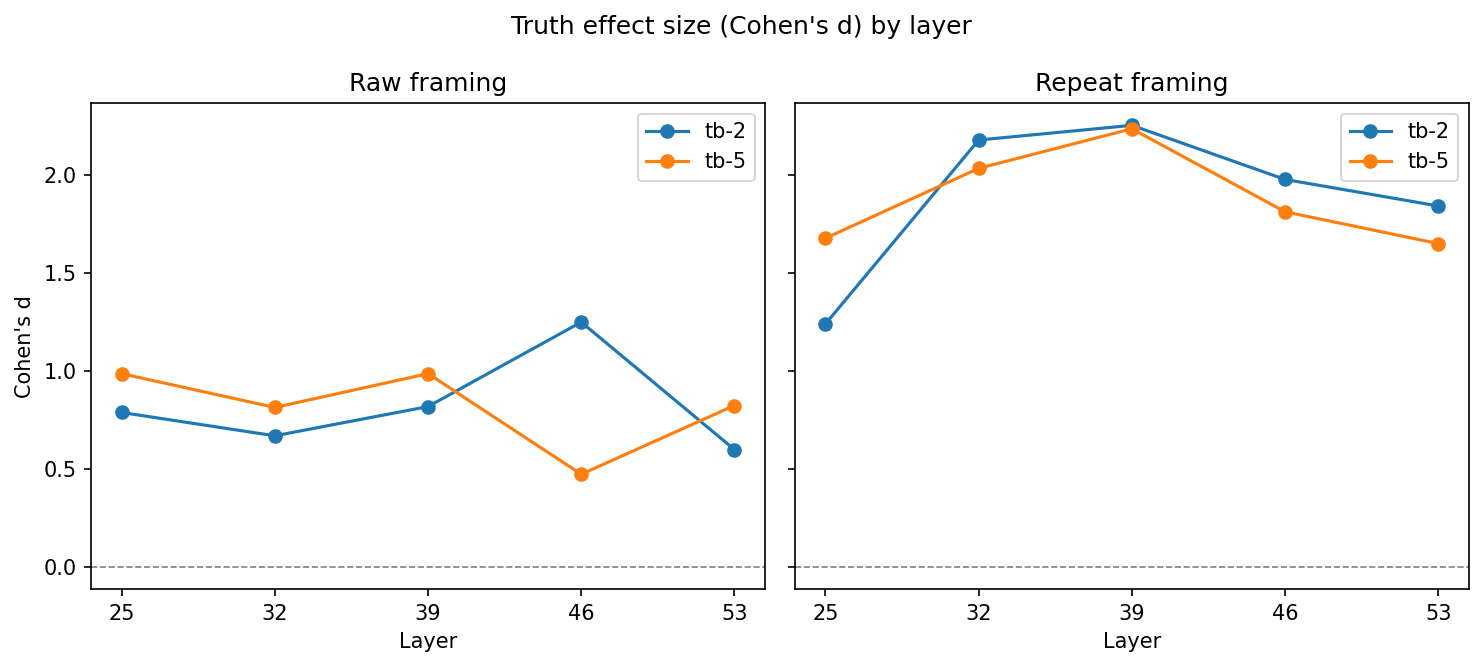
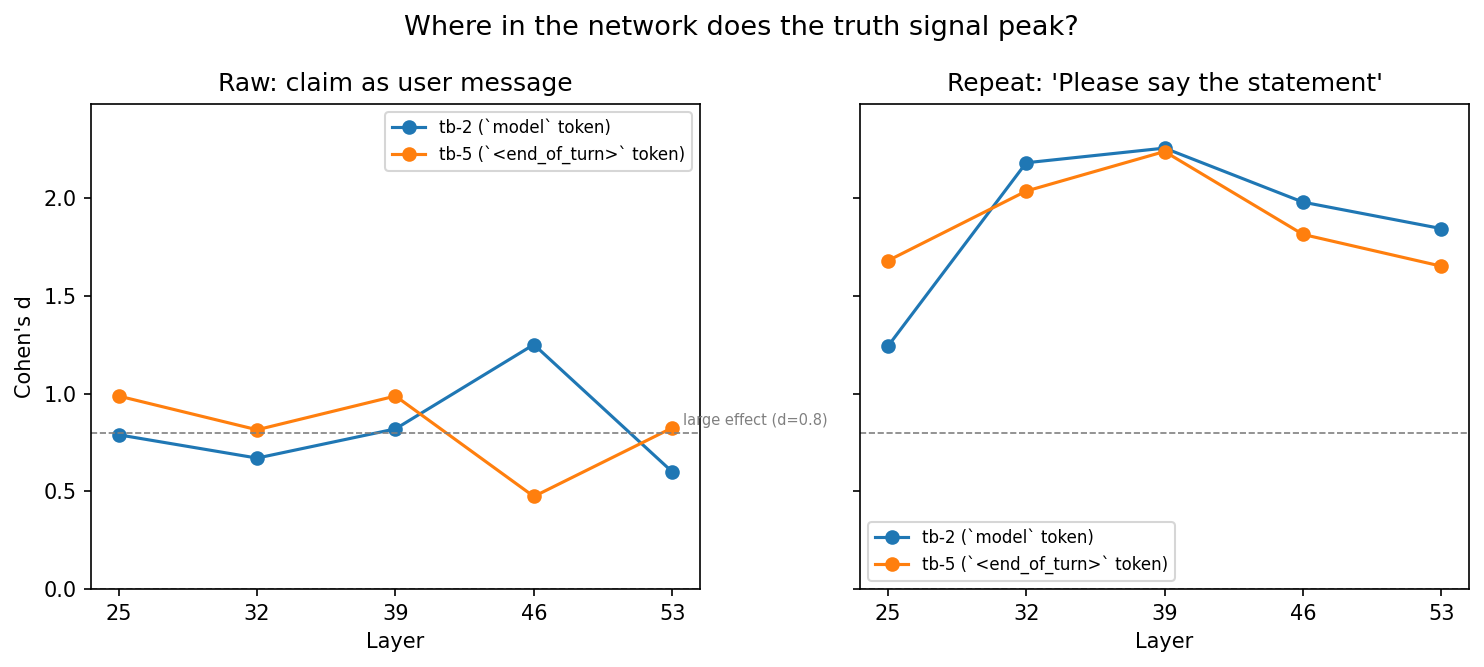
Rewrite truth probes report for clarity; improve plots
Report: add CREAK examples, framing examples, probe context (original r),
chance baselines, framing comparison table. Cut interpretive prose.

Plots: distinct colors for true/false violins, descriptive legend labels
with token names, d=0.8 reference line, question-framed titles.

diff --git a/scripts/truth_probes/plot_distributions_v2.py b/scripts/truth_probes/plot_distributions_v2.py
@@ -1,0 +1,96 @@
+"""Violin plot of preference probe scores for true vs false claims."""
+
+import json
+from pathlib import Path
+
+import matplotlib.pyplot as plt
+import numpy as np
+
+from src.probes.core.activations import load_activations
+from src.probes.core.evaluate import score_with_probe
+
+ROOT = Path(__file__).resolve().parents[2]
+
+# Paths
+raw_acts_path = ROOT / "activations/gemma_3_27b_creak_raw/activations_turn_boundary:-2.npz"
+repeat_acts_path = ROOT / "activations/gemma_3_27b_creak_repeat/activations_turn_boundary:-2.npz"
+probe_path = ROOT / "results/probes/heldout_eval_gemma3_tb-2/probes/probe_ridge_L32.npy"
+labels_path = ROOT / "src/task_data/data/creak.jsonl"
+out_path = ROOT / "experiments/truth_probes/assets/plot_031126_truth_probe_score_distributions.png"
+
+# Load probe
+probe_weights = np.load(probe_path)
+
+# Load labels
+labels_by_id: dict[str, str] = {}
+with open(labels_path) as f:
+    for line in f:
+        row = json.loads(line)
+        labels_by_id[row["ex_id"]] = row["label"]
+
+# Load and score both conditions
+conditions = {
+    "raw": raw_acts_path,
+    "repeat": repeat_acts_path,
+}
+
+scored: dict[str, dict[str, list[float]]] = {}
+for name, path in conditions.items():
+    task_ids, layer_acts = load_activations(path, layers=[32])
+    scores = score_with_probe(probe_weights, layer_acts[32])
+
+    true_scores = []
+    false_scores = []
+    for tid, s in zip(task_ids, scores):
+        label = labels_by_id[tid]
+        if label == "true":
+            true_scores.append(float(s))
+        else:
+            false_scores.append(float(s))
+
+    scored[name] = {"true": true_scores, "false": false_scores}
+
+# Plot
+COLOR_FALSE = "#c45c5c"
+COLOR_TRUE = "#5c8fb8"
+
+fig, axes = plt.subplots(1, 2, figsize=(10, 5), dpi=150, sharey=True)
+
+panel_info = [
+    ("raw", "Raw: claim as user message (d=+0.670)"),
+    ("repeat", "Repeat: 'Please say the following statement' (d=+2.180)"),
+]
+
+for ax, (name, title) in zip(axes, panel_info):
+    false_vals = scored[name]["false"]
+    true_vals = scored[name]["true"]
+
+    parts = ax.violinplot(
+        [false_vals, true_vals],
+        positions=[0, 1],
+        showmeans=False,
+        showmedians=False,
+        showextrema=False,
+    )
+
+    for i, body in enumerate(parts["bodies"]):
+        body.set_facecolor(COLOR_FALSE if i == 0 else COLOR_TRUE)
+        body.set_alpha(0.7)
+
+    # Mean lines
+    for i, (vals, color) in enumerate(
+        [(false_vals, COLOR_FALSE), (true_vals, COLOR_TRUE)]
+    ):
+        mean = np.mean(vals)
+        ax.hlines(mean, i - 0.25, i + 0.25, colors=color, linewidths=2)
+
+    ax.set_xticks([0, 1])
+    ax.set_xticklabels(["False", "True"])
+    ax.set_title(title, fontsize=10)
+
+axes[0].set_ylabel("Preference probe score (tb-2, layer 32)")
+
+fig.suptitle("Does the preference direction separate true from false claims?", fontsize=12)
+fig.tight_layout()
+fig.savefig(out_path)
+print(f"Saved to {out_path}")

diff --git a/scripts/truth_probes/plot_effect_sizes_v2.py b/scripts/truth_probes/plot_effect_sizes_v2.py
@@ -1,0 +1,73 @@
+import json
+from pathlib import Path
+
+import matplotlib.pyplot as plt
+
+ROOT = Path(__file__).resolve().parents[2]
+RESULTS_PATH = ROOT / "experiments" / "truth_probes" / "truth_probes_results.json"
+OUT_PATH = ROOT / "experiments" / "truth_probes" / "assets" / "plot_031126_truth_effect_size_by_layer.png"
+
+LAYERS = [25, 32, 39, 46, 53]
+FRAMINGS = ["raw", "repeat"]
+PROBES = ["tb-2", "tb-5"]
+
+PROBE_LABELS = {
+    "tb-2": "tb-2 (`model` token)",
+    "tb-5": "tb-5 (`<end_of_turn>` token)",
+}
+PANEL_TITLES = {
+    "raw": "Raw: claim as user message",
+    "repeat": "Repeat: 'Please say the statement'",
+}
+
+
+def main():
+    with open(RESULTS_PATH) as f:
+        results = json.load(f)
+
+    fig, axes = plt.subplots(1, 2, figsize=(10, 4.5), dpi=150, sharey=True)
+    # Compute global y-max across all data to set shared limits
+    all_ds = [
+        results[f][p][str(l)]["cohens_d"]
+        for f in FRAMINGS for p in PROBES for l in LAYERS
+    ]
+    y_max = max(all_ds) * 1.1
+
+    for i, framing in enumerate(FRAMINGS):
+        ax = axes[i]
+        for probe in PROBES:
+            ds = [results[framing][probe][str(layer)]["cohens_d"] for layer in LAYERS]
+            ax.plot(LAYERS, ds, marker="o", label=PROBE_LABELS[probe])
+
+        ax.axhline(0, color="gray", linestyle="--", linewidth=0.8)
+        ax.axhline(0.8, color="gray", linestyle="--", linewidth=0.8)
+
+        if i == 0:
+            ax.annotate(
+                "large effect (d=0.8)",
+                xy=(LAYERS[-1], 0.8),
+                xytext=(5, 2),
+                textcoords="offset points",
+                fontsize=7,
+                color="gray",
+                ha="left",
+                va="bottom",
+            )
+            ax.set_ylabel("Cohen's d")
+
+        ax.set_xlabel("Layer")
+        ax.set_title(PANEL_TITLES[framing])
+        ax.set_xticks(LAYERS)
+        ax.set_ylim(bottom=0, top=y_max)
+        ax.legend(fontsize=8)
+
+    fig.suptitle("Where in the network does the truth signal peak?", fontsize=13)
+    fig.tight_layout()
+    OUT_PATH.parent.mkdir(parents=True, exist_ok=True)
+    fig.savefig(OUT_PATH, bbox_inches="tight")
+    plt.close(fig)
+    print(f"Saved to {OUT_PATH}")
+
+
+if __name__ == "__main__":
+    main()

diff --git a/experiments/truth_probes/truth_probes_analysis_report.md b/experiments/truth_probes/truth_probes_analysis_report.md
@@ -2,92 +2,119 @@
 
 ## Summary
 
-The preference probe direction strongly separates true from false CREAK claims. Across all 20 (framing × probe × layer) conditions, true statements score higher than false ones, with Cohen's d ranging from 0.47 to 2.26. The "repeat" framing (where the model is asked to say the statement) amplifies the effect by 1.6–3.8x compared to the "raw" framing (claim as bare user message).
+Preference probes — trained only on pairwise task choices — strongly separate true from false factual claims. Cohen's d ranges from 0.47 to 2.26 across all 20 conditions, with 19 of 20 exceeding the "large effect" threshold (d > 0.8). The best condition (repeat framing, tb-2 probe, layer 39) achieves AUC = 0.94 at classifying truth from a probe never trained on truth labels.
 
 ## Setup
 
-- **Claims:** 9,395 CREAK statements (4,810 true, 4,585 false)
-- **Model:** Gemma 3 27B IT
-- **Probes:** Preference probes trained on 10k pairwise task-choice Thurstonian scores (tb-2 at `model` token, tb-5 at `<end_of_turn>` token)
-- **Layers:** 25, 32, 39, 46, 53
-- **Framings:** Raw (claim as user message) and Repeat ("Please say the following statement: '{claim}'")
+**Claims:** 9,395 CREAK statements — commonsense factual claims designed so false ones are linguistically plausible (not obviously wrong or ungrammatical):
+
+| Label | Example |
+|-------|---------|
+| true | "Marlboro used iconic imagery to promote its brand." |
+| false | "Only people named Floyd wearing pink are allowed to attend Pink Floyd concerts." |
+| true | "The crack in the Liberty Bell sets it apart from other famous bells." |
+| false | "Larry King served tea during his show." |
+
+4,810 true, 4,585 false.
+
+**Model:** Gemma 3 27B IT.
+
+**Probes:** Two preference probes, each a Ridge regression trained on 10k pairwise task-choice Thurstonian scores. They differ in which token's activations they read:
+
+| Probe | Token position | Original preference r (L32) |
+|-------|---------------|---------------------------|
+| tb-2 | `model` (2nd-to-last turn token) | 0.874 |
+| tb-5 | `<end_of_turn>` (5th-to-last) | 0.868 |
+
+**Layers:** 25, 32, 39, 46, 53 (out of 62 total).
+
+**Framings:** Two ways of presenting the claim to the model:
+
+| Framing | What the model sees |
+|---------|-------------------|
+| Raw | User message: `"Marlboro used iconic imagery to promote its brand."` |
+| Repeat | User message: `"Please say the following statement: 'Marlboro used iconic imagery to promote its brand.'"` |
+
+The repeat framing forces the model to commit to producing the statement, rather than passively processing it.
 
 ## Results
 
-Bold layers: **best preference layer** (L32) and **peak truth layer** per probe.
+### Effect sizes: all positive, most large
 
-### Raw framing
+Bold = **best preference layer** (L32) and **peak truth layer** per probe.
 
-| Probe | Layer | Cohen's d | Mean diff |
-|-------|-------|-----------|-----------|
-| tb-2 | 25 | +0.789 | +1.194 |
-| tb-2 | **32** | +0.670 | +1.200 |
-| tb-2 | 39 | +0.819 | +1.274 |
-| tb-2 | **46** | **+1.250** | +1.995 |
-| tb-2 | 53 | +0.600 | +0.908 |
-| tb-5 | 25 | +0.987 | +1.683 |
-| tb-5 | **32** | +0.815 | +1.215 |
-| tb-5 | **39** | **+0.987** | +1.369 |
-| tb-5 | 46 | +0.474 | +0.662 |
-| tb-5 | 53 | +0.825 | +1.295 |
+#### Raw framing
 
-### Repeat framing
+| Probe | Layer | Cohen's d | Mean score diff (true − false) |
+|-------|-------|-----------|-------------------------------|
+| tb-2 | 25 | +0.79 | +1.19 |
+| tb-2 | **32** | +0.67 | +1.20 |
+| tb-2 | 39 | +0.82 | +1.27 |
+| tb-2 | **46** | **+1.25** | +2.00 |
+| tb-2 | 53 | +0.60 | +0.91 |
+| tb-5 | 25 | +0.99 | +1.68 |
+| tb-5 | **32** | +0.81 | +1.22 |
+| tb-5 | **39** | **+0.99** | +1.37 |
+| tb-5 | 46 | +0.47 | +0.66 |
+| tb-5 | 53 | +0.82 | +1.30 |
 
-| Probe | Layer | Cohen's d | Mean diff |
-|-------|-------|-----------|-----------|
-| tb-2 | 25 | +1.241 | +1.887 |
-| tb-2 | **32** | +2.180 | +2.483 |
-| tb-2 | **39** | **+2.255** | +3.661 |
-| tb-2 | 46 | +1.979 | +3.889 |
-| tb-2 | 53 | +1.843 | +2.813 |
-| tb-5 | 25 | +1.679 | +2.798 |
-| tb-5 | **32** | +2.035 | +2.715 |
-| tb-5 | **39** | **+2.238** | +3.019 |
-| tb-5 | 46 | +1.814 | +2.150 |
-| tb-5 | 53 | +1.651 | +2.023 |
+#### Repeat framing
 
-### Score distributions (tb-2 L32)
+| Probe | Layer | Cohen's d | Mean score diff (true − false) |
+|-------|-------|-----------|-------------------------------|
+| tb-2 | 25 | +1.24 | +1.89 |
+| tb-2 | **32** | +2.18 | +2.48 |
+| tb-2 | **39** | **+2.26** | +3.66 |
+| tb-2 | 46 | +1.98 | +3.89 |
+| tb-2 | 53 | +1.84 | +2.81 |
+| tb-5 | 25 | +1.68 | +2.80 |
+| tb-5 | **32** | +2.04 | +2.72 |
+| tb-5 | **39** | **+2.24** | +3.02 |
+| tb-5 | 46 | +1.81 | +2.15 |
+| tb-5 | 53 | +1.65 | +2.02 |
 
-![Violin plots of preference probe scores on true vs false claims](assets/plot_031126_truth_probe_score_distributions.png)
+Cohen's d benchmarks: 0.2 = small, 0.5 = medium, 0.8 = large. The weakest condition (tb-5 L46 raw, d = 0.47) is still a medium effect.
 
-Violin plot uses the best *preference* layer (L32) rather than the peak *truth* layer — this makes the layer-profile mismatch finding more visible. Raw framing: overlapping distributions with clear mean shift (d=0.67). Repeat framing: nearly separated distributions (d=2.18).
+### Score distributions
 
-### Effect size by layer
+![Preference probe scores on true vs false claims, tb-2 probe at layer 32](assets/plot_031126_truth_probe_score_distributions.png)
+
+Shown at the best *preference* layer (L32, where the probe best predicts task preferences), not the peak *truth* layer. Even at this non-optimal layer, the repeat framing nearly separates the distributions (d = 2.18).
+
+### Truth signal peaks at different layers than preference signal
 
 ![Cohen's d by layer for both probes and framings](assets/plot_031126_truth_effect_size_by_layer.png)
 
-The layer profile for truth **does not match** the layer profile for preference prediction (which peaks at L32). In the raw framing, the truth signal peaks at L46 for tb-2 and is relatively flat for tb-5. In the repeat framing, both probes peak at L39. This divergence suggests the preference direction captures truth-value as a correlated but distinct signal from preference strength.
+Preference prediction peaks at L32 for both probes. The truth signal peaks later — L46 (raw, tb-2) or L39 (repeat, both probes). The preference direction picks up truth as a correlated but distinct signal.
 
-## Sanity checks
+### Sanity checks
 
-Permutation test (1000 shuffles of true/false labels) and classification metrics confirm the signal is real:
+Permutation test (1000 label shuffles) and classification metrics. Chance AUC = 0.5, chance accuracy = 51.2%.
 
-| Condition | AUC-ROC | Accuracy | Perm p | Observed diff / max perm diff |
-|-----------|---------|----------|--------|-------------------------------|
-| raw tb-2 L32 | 0.690 | 63.6% | < 0.001 | 10x |
-| raw tb-2 L46 | 0.818 | 74.9% | < 0.001 | 15x |
-| repeat tb-2 L32 | 0.939 | 87.6% | < 0.001 | 21x |
-| repeat tb-2 L39 | 0.943 | 87.9% | < 0.001 | 19x |
+| Condition | AUC | Accuracy | Perm p | Observed / max permuted diff |
+|-----------|-----|----------|--------|------------------------------|
+| raw, tb-2, L32 | 0.69 | 63.6% | < 0.001 | 10x |
+| raw, tb-2, L46 | 0.82 | 74.9% | < 0.001 | 15x |
+| repeat, tb-2, L32 | 0.94 | 87.6% | < 0.001 | 21x |
+| repeat, tb-2, L39 | 0.94 | 87.9% | < 0.001 | 19x |
 
-The repeat-framing preference direction achieves 94% AUC at classifying true vs false — from a probe that was never trained on truth labels.
+Observed mean differences are 10–30x larger than the largest permutation difference.
 
 ## Framing comparison
 
-The repeat framing amplifies the truth signal by 1.6–3.8x across conditions. This is consistent with the hypothesis that asking the model to "say" the statement engages evaluative processing more than passively encountering the claim. When the model commits to producing the statement, its internal representations more sharply distinguish true from false content along the preference direction.
+The repeat framing amplifies the truth signal by 1.6–3.8x across conditions (median ~2.5x). Selected comparisons:
 
-## Interpretation
+| Probe | Layer | Raw d | Repeat d | Amplification |
+|-------|-------|-------|----------|---------------|
+| tb-2 | 32 | 0.67 | 2.18 | 3.3x |
+| tb-2 | 46 | 1.25 | 1.98 | 1.6x |
+| tb-5 | 46 | 0.47 | 1.81 | 3.8x |
+| tb-5 | 25 | 0.99 | 1.68 | 1.7x |
 
-Per the spec's interpretation guide:
+Asking the model to produce a statement (vs passively processing it) sharpens truth/false separation along the preference direction.
 
-| Outcome | Threshold | Our result |
-|---------|-----------|------------|
-| Strong signal | d > 0.5 | **19 of 20 conditions** (tb-5 L46 raw: d=0.47) |
-| Raw best | — | d = 1.25 (tb-2 L46) |
-| Repeat best | — | d = 2.26 (tb-2 L39) |
+## Caveats
 
-The preference direction encodes truth-value: the model "prefers" true statements. This is consistent with the hypothesis that the preference direction captures something like "how good is this?" — and the model values accuracy.
-
-Key caveats:
-- This is a correlational finding — the preference direction wasn't trained on truth labels, but it separates them. This could reflect a shared underlying evaluative dimension, or a confound (e.g., true statements are more fluent/natural). CREAK was designed so false claims are linguistically plausible, which partially mitigates fluency-based confounds.
-- The CREAK dataset contains commonsense factual claims. The finding may not generalize to more ambiguous or contested statements.
-- The layer profile mismatch (truth peaks at L39–46 vs preferences peak at L32) suggests the signals are related but not identical.
+- **Correlational.** The preference direction wasn't trained on truth labels. The separation could reflect a shared evaluative dimension, or a confound. CREAK's design (false claims are linguistically plausible) partially mitigates fluency-based confounds, but doesn't rule them out.
+- **Commonsense facts only.** CREAK contains clear-cut factual claims. May not generalize to ambiguous or contested statements.
+- **Layer mismatch.** Truth peaks at L39–46, preferences at L32. The signals share a direction but aren't identical — the preference direction is not a pure truth detector.
